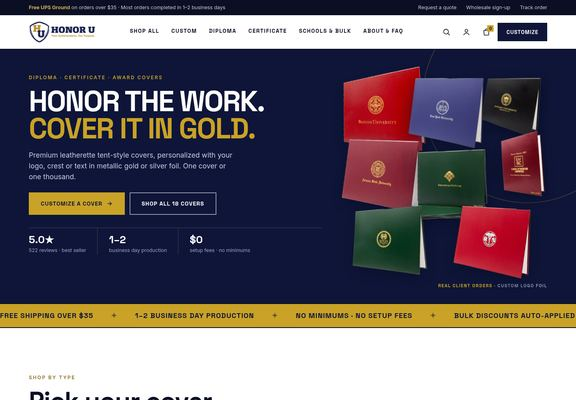
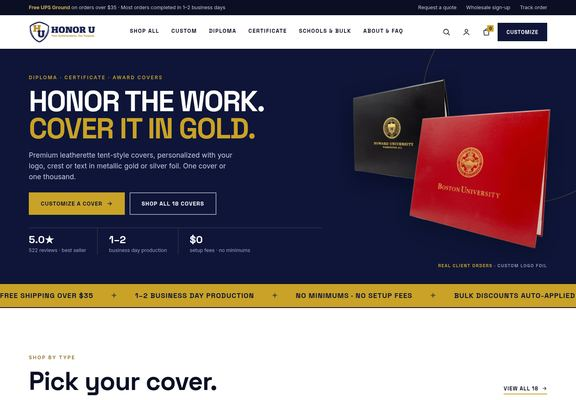
Design B: simplify hero to two client-sample cutouts (Boston University, Howard)

diff --git a/design-b/index.html b/design-b/index.html
@@ -88,17 +88,10 @@ html.shot .hdr{position:relative}
 .hero .stats div{padding:16px 28px 0 0;margin-right:28px;border-right:1px solid rgba(255,255,255,.18)}.hero .stats div:last-child{border:0}
 .hero .stats b{display:block;font:700 26px/1 var(--disp);color:#fff}.hero .stats span{font-size:12.5px;color:#9EA3C4}
 .hero-art{position:relative;width:100%;max-width:520px;justify-self:end;margin-top:-6px}
-.array{position:relative;height:520px}
-.array img{position:absolute;height:auto;filter:drop-shadow(0 14px 18px rgba(5,9,30,.45));transition:transform .25s ease}
-.array img:hover{transform:rotate(0) translateY(-6px) scale(1.04)!important;z-index:9}
-.array .c1{left:0;top:0;width:40%;transform:rotate(-5deg);z-index:1}
-.array .c2{left:33%;top:3%;width:36%;transform:rotate(3deg);z-index:2}
-.array .c3{left:66%;top:0;width:34%;transform:rotate(6deg);z-index:1}
-.array .c4{left:1%;top:33%;width:38%;transform:rotate(4deg);z-index:3}
-.array .c5{left:30%;top:38%;width:46%;transform:rotate(-2deg);z-index:4}
-.array .c6{left:75%;top:29%;width:25%;transform:rotate(-4deg);z-index:3}
-.array .c7{left:5%;top:66%;width:36%;transform:rotate(-3deg);z-index:5}
-.array .c8{left:55%;top:66%;width:37%;transform:rotate(4deg);z-index:5}
+.array{position:relative;height:470px}
+.array img{position:absolute;height:auto;filter:drop-shadow(0 22px 26px rgba(5,9,30,.5))}
+.array .c1{left:0;top:2%;width:60%;transform:rotate(-5deg);z-index:1}
+.array .c2{right:0;top:19%;width:66%;transform:rotate(3deg);z-index:2}
 .hero-art .lab{position:absolute;right:0;bottom:-26px;color:#9EA3C4;font:600 11px/1 var(--disp);letter-spacing:.14em;text-transform:uppercase}.hero-art .lab b{color:var(--gold);font-weight:700}
 .marq{background:var(--gold);color:var(--navy);overflow:hidden;border-top:2px solid var(--ink);border-bottom:2px solid var(--ink)}
 .marq div{display:flex;gap:44px;white-space:nowrap;padding:20px 0;font:700 18px/1 var(--disp);letter-spacing:.06em;text-transform:uppercase;width:max-content}
@@ -144,7 +137,7 @@ html.shot .hdr{position:relative}
  .hero .ctas .btn{flex:1 1 100%}
  .hero .stats{grid-template-columns:repeat(3,1fr);margin-top:24px}.hero .stats div{padding:12px 8px 0 0;margin-right:8px}.hero .stats b{font-size:20px}.hero .stats span{font-size:11px;display:block}
  .hero h1{white-space:normal}
- .hero-art{max-width:none;justify-self:stretch;margin:6px 0 22px}.array{height:360px}.hero-art .lab{bottom:-22px;font-size:10px}
+ .hero-art{max-width:none;justify-self:stretch;margin:6px 0 22px}.array{height:330px}.hero-art .lab{bottom:-22px;font-size:10px}
  .marq div{font-size:14px;padding:15px 0;gap:26px}
  .idx{grid-template-columns:repeat(2,minmax(0,1fr));gap:10px}
  .idx .th{height:128px}.idx .th img{height:110px}.idx .no{left:8px;top:8px;font-size:11px;padding:5px 7px}
@@ -169,16 +162,10 @@ html.shot .hdr{position:relative}
 <p>Premium leatherette tent-style covers, personalized with your logo, crest or text in metallic gold or silver foil. One cover or one thousand.</p>
 <div class="ctas"><a class="btn btn-gold" href="product.html">Customize a cover <svg width="14" height="14" viewBox="0 0 24 24" fill="none" stroke="currentColor" stroke-width="2" stroke-linecap="round"><path d="M5 12h14M13 6l6 6-6 6"/></svg></a><a class="btn btn-line" href="collection.html">Shop all 18 covers</a></div>
 <div class="stats"><div><b>5.0★</b><span>522 reviews · best seller</span></div><div><b>1–2</b><span>business day production</span></div><div><b>$0</b><span>setup fees · no minimums</span></div></div></div>
-<div class="hero-art" data-block="hero client-sample array (transparent cutouts)">
+<div class="hero-art" data-block="hero client samples (2 transparent cutouts)">
 <div class="array">
-<img class="c1" src="../shared-assets/site/client-cutouts/boston-university.webp" alt="Boston University diploma cover, red with gold foil seal">
-<img class="c2" src="../shared-assets/site/client-cutouts/nyu.webp" alt="New York University cover with silver foil seal">
-<img class="c3" src="../shared-assets/site/client-cutouts/howard-university.webp" alt="Howard University black diploma cover with gold foil">
-<img class="c4" src="../shared-assets/site/client-cutouts/arizona-state.webp" alt="Arizona State University maroon cover with gold foil">
-<img class="c5" src="../shared-assets/site/client-cutouts/interventional-cardiology-stack.webp" alt="Stack of green Interventional Cardiology fellowship covers">
-<img class="c6" src="../shared-assets/site/client-cutouts/usc-school-of-medicine.webp" alt="University of South Carolina School of Medicine Greenville cover">
-<img class="c7" src="../shared-assets/site/client-cutouts/sophia-christian.webp" alt="Sophia Christian University green cover with gold seal">
-<img class="c8" src="../shared-assets/site/client-cutouts/registered-nurse.webp" alt="Red Registered Nurse cover with silver foil">
+<img class="c1" src="../shared-assets/site/client-cutouts/howard-university.webp" alt="Howard University black diploma cover with gold foil seal">
+<img class="c2" src="../shared-assets/site/client-cutouts/boston-university.webp" alt="Boston University red diploma cover with gold foil seal">
 </div><span class="lab"><b>Real client orders</b> · custom logo foil</span></div>
 </div></section>
 <div class="marq" aria-label="Store benefits"><div>Free shipping over $35 <i>✦</i> 1–2 business day production <i>✦</i> No minimums · no setup fees <i>✦</i> Bulk discounts auto-applied <i>✦</i> Gold or silver foil <i>✦</i> 6 leatherette colors <i>✦</i> Free shipping over $35 <i>✦</i> 1–2 business day production <i>✦</i> No minimums · no setup fees <i>✦</i> Bulk discounts auto-applied <i>✦</i> Gold or silver foil <i>✦</i> 6 leatherette colors</div></div>
